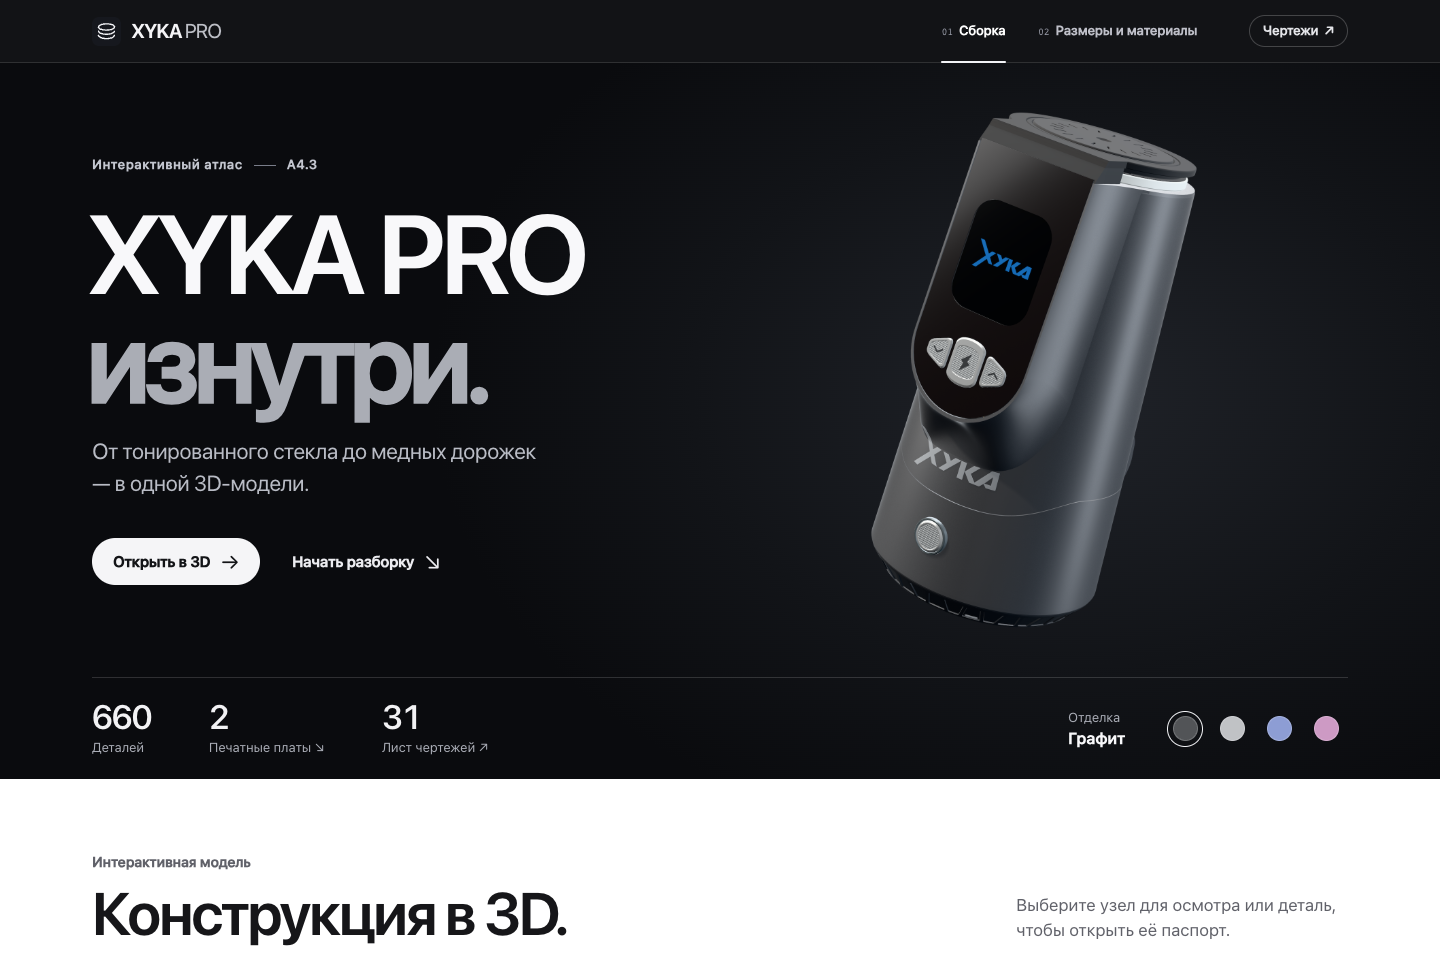
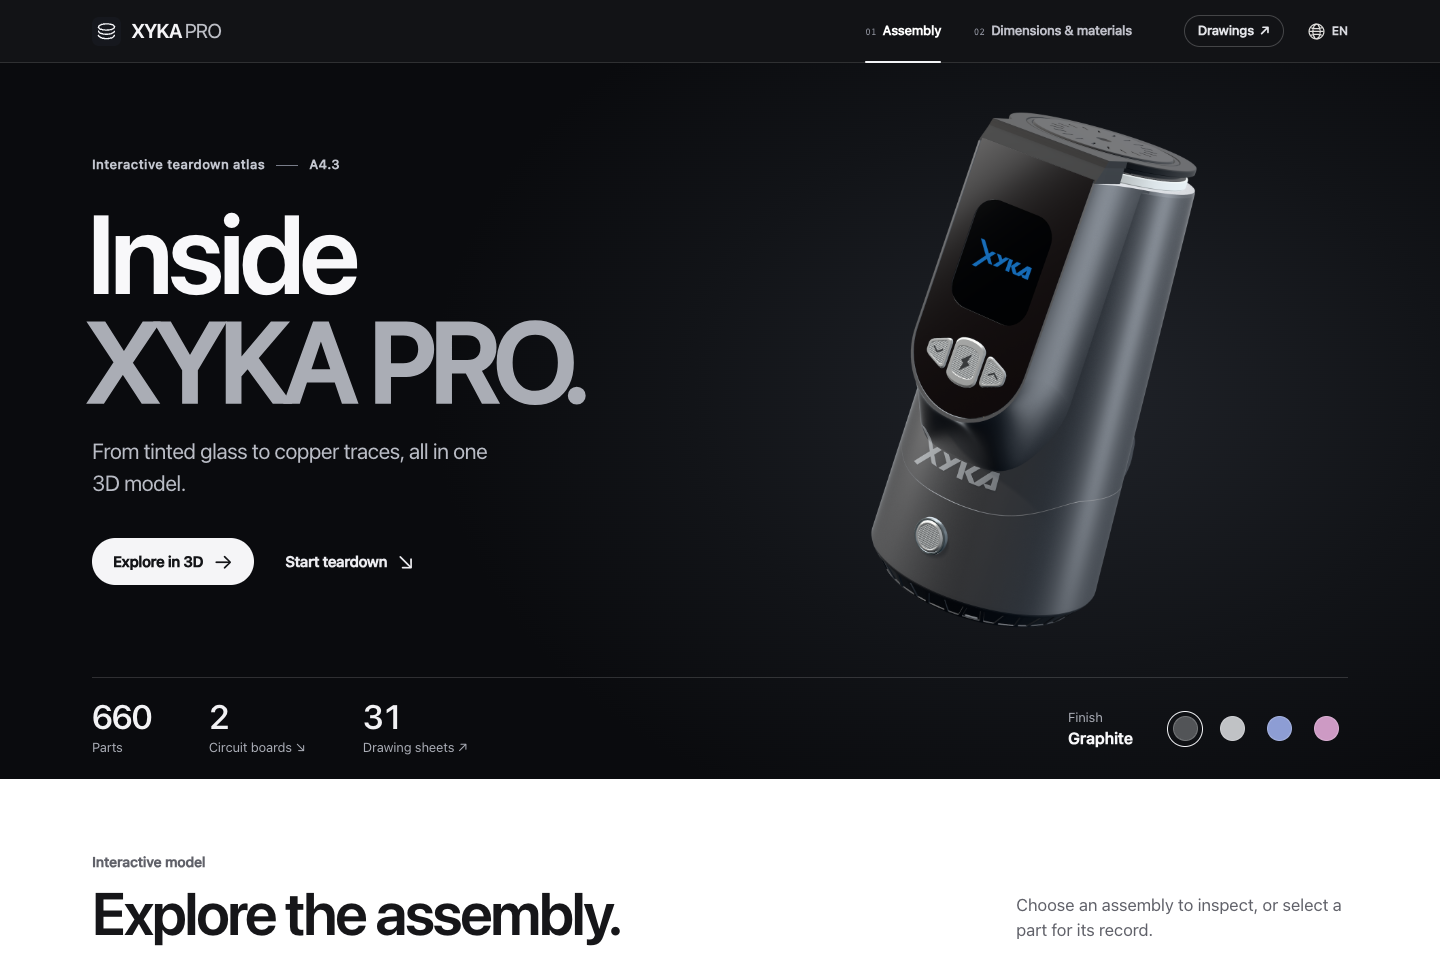
Show the complete assembly, battery and boards in the English studio

diff --git a/README.md b/README.md
@@ -1,19 +1,33 @@
-# Inside XYKA PRO · Teardown Atlas
+# Inside XKAH Pro · XYKA PRO
 
 [![Code license: MIT](docs/badges/license.svg)](LICENSE) [![FreeCAD 1.1.4](docs/badges/freecad.svg)](https://www.freecad.org/) [![glTF 2.0](docs/badges/format.svg)](https://www.khronos.org/gltf/) [![Offline viewer](docs/badges/offline.svg)](https://github.com/Georgy-hook/xyka-pro-atlas/releases/latest/download/XYKA_PRO_A43_Studio.zip)
 
-Choose Graphite, Silver, Blue or Pink. Then lift out the battery, separate the two halves and open the steel pod to reveal its mesh. This independent reconstruction of the XKAH / XYKA PRO puts **660 selectable parts** and **13 teardown stages** in your browser.
+Lift out the battery, open the steel pod and follow the copper traces on the mainboard. This independent **3D teardown atlas** brings **660 selectable parts** and **13 teardown stages** to your browser. The [international guide](https://xkah.us/pages/xkah-pro-user-guide) and a [Chinese-language retail listing](https://www.el-badia.com/zh/chicha-electronique/6404-xkah-pro-dian-zi-jia-re-xi-tong.html) use **XKAH Pro**; the [Russian catalogue](https://xyka.pro/xyka-graphite) uses **XYKA PRO**. This model captures the XYKA-marked A4.3 unit.
 
 **[Launch the 3D atlas](https://georgy-hook.github.io/xyka-pro-atlas/)** · [Download the offline studio](https://github.com/Georgy-hook/xyka-pro-atlas/releases/latest/download/XYKA_PRO_A43_Studio.zip)
 
-Explore online, or unzip the studio and open `atlas/index.html` to take it offline.
+[English](https://georgy-hook.github.io/xyka-pro-atlas/atlas/?lang=en) · [Русский](https://georgy-hook.github.io/xyka-pro-atlas/atlas/?lang=ru) · [简体中文](https://georgy-hook.github.io/xyka-pro-atlas/atlas/?lang=zh-CN)
 
-![Studio view of the XYKA PRO in Graphite](docs/screenshots/atlas-assembly.png)
+![The graphite XYKA PRO on the English studio landing page](docs/screenshots/atlas-assembly.png)
 
-Select a component in 3D to see its name, dimensions and source. Take the same assembly into FreeCAD, use the full and split STEP models in your CAD tool, or follow the visible copper on the [mainboard](pcb/main/GYS005-S-088-A4.3.kicad_pcb) and [display board](pcb/display/20260305A.kicad_pcb) in KiCad.
+### The assembly
 
-![Component-side view of the A4.3 mainboard in the atlas](docs/screenshots/atlas-mainboard.png)
+Rotate the complete model, switch between four finishes, or pick a part to open its record.
 
-[FreeCAD assembly](https://github.com/Georgy-hook/xyka-pro-atlas/releases/latest/download/XKAH_PRO_A43_rebuilt.FCStd) · [31-sheet drawing set (PDF)](https://github.com/Georgy-hook/xyka-pro-atlas/releases/latest/download/XKAH_PRO_A43_drawings.pdf) · [Engineering notes and sources](docs/engineering.ru.md)
+![The assembled XYKA PRO in the interactive English 3D viewer](docs/screenshots/atlas-model.png)
 
-Original viewer and CAD tools: [MIT](LICENSE). Third-party notices: [Three.js](atlas/vendor/three-LICENSE.txt), [noUiSlider and Tabler Icons](atlas/vendor/ui-LICENSES.md), [osifont](docs/licenses/osifont.txt). XKAH and XYKA are product identifiers.
+### The removable battery
+
+Inspect the pack on its own, from its printed markings to the USB-C port and end contacts.
+
+![The removable battery module in the English 3D viewer](docs/screenshots/atlas-battery.png)
+
+### The mainboard
+
+Look closer at the component side of the GYS005-S-088-A4.3. Then open the [mainboard](pcb/main/GYS005-S-088-A4.3.kicad_pcb) and [display board](pcb/display/20260305A.kicad_pcb) in KiCad.
+
+![Component-side view of the A4.3 mainboard in the English 3D viewer](docs/screenshots/atlas-mainboard.png)
+
+[FreeCAD assembly](https://github.com/Georgy-hook/xyka-pro-atlas/releases/latest/download/XKAH_PRO_A43_rebuilt.FCStd) · [31-sheet drawing set (PDF, Russian)](https://github.com/Georgy-hook/xyka-pro-atlas/releases/latest/download/XKAH_PRO_A43_drawings.pdf) · [Engineering notes and sources](docs/engineering.ru.md). For offline use, unzip the studio and open `atlas/index.html`.
+
+Original viewer and CAD tools: [MIT](LICENSE). Third-party notices: [Three.js](atlas/vendor/three-LICENSE.txt), [noUiSlider and Tabler Icons](atlas/vendor/ui-LICENSES.md), [osifont](docs/licenses/osifont.txt).

diff --git a/docs/engineering.ru.md b/docs/engineering.ru.md
@@ -6,6 +6,8 @@
 
 Скачайте **[XYKA_PRO_A43_Studio.zip](https://github.com/Georgy-hook/xyka-pro-atlas/releases/latest/download/XYKA_PRO_A43_Studio.zip)** из GitHub Releases. Распакуйте целиком и откройте `atlas/index.html` в браузере с WebGL 2. Сервер, сеть и установка пакетов не нужны. Выбирайте детали на модели или в ведомости по названию / CAD ID. Стрелки переключают вкладки, Enter открывает результат поиска. Ползунок разносит сборку по нативным векторам. На листе «Размеры и материалы» отделены сведения источников и оценки модели. Основание реконструкции конкретной детали указано в её паспорте. Если WebGL недоступен, остаются ведомость и статический вид из CAD.
 
+Интерфейс, сведения о деталях и описания всех этапов доступны на английском, русском и упрощённом китайском. Выбор языка внизу страницы и значок глобуса в шапке открывают одно меню. Прямые ссылки используют `?lang=en`, `?lang=ru` или `?lang=zh-CN`; переключение не меняет геометрию, нанесённые на прибор надписи или инженерные файлы. Чертежи выпущены на русском. [Международное руководство](https://xkah.us/pages/xkah-pro-user-guide) использует **XKAH Pro**, [русскоязычное](https://xyka.pro/instrukciya) — **XYKA Pro**. Имя семейства не удостоверяет совпадение всех аппаратных ревизий: реконструирован экземпляр с маркировкой XYKA и платой A4.3.
+
 Для браузера и FreeCAD заданы графитовая, серебристая, синяя и розовая отделки. В FreeCAD выполните **`XKAH_Finish.FCMacro`** на открытой модели: меняется только наружная облицовка, изменения отменяемы, сохранение ручное. Издания STEP и чертежей выполнены в графите. Оптические свойства в браузере не определяют состав: серебристый колпачок не объявлен цельнометаллическим. Исходные фотографии чужих разборок можно открыть по ссылкам, но они не перепубликуются в атласе.
 
 ## Открыть и осмотреть
